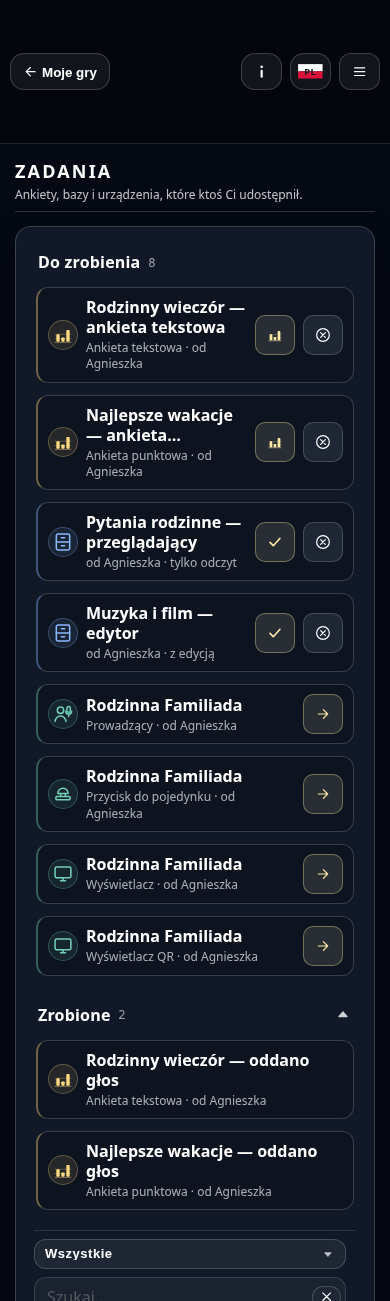
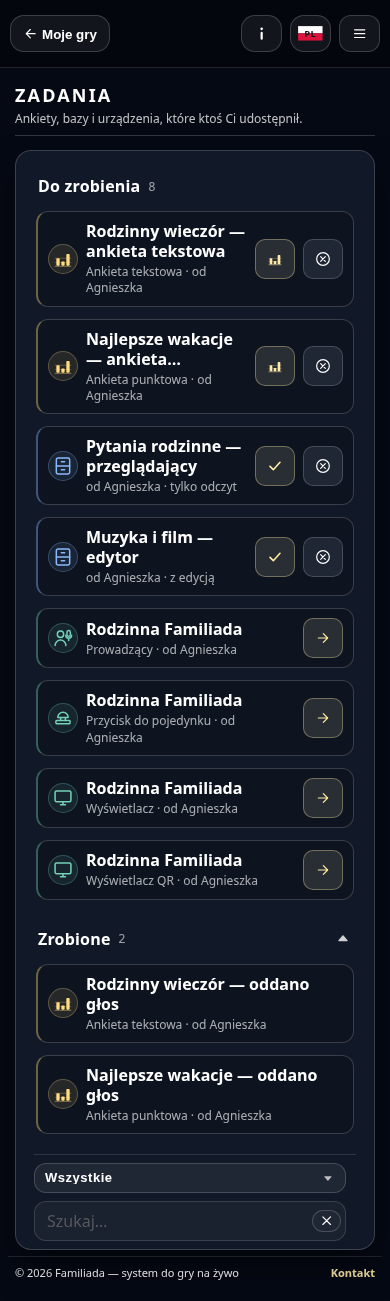
Plan E20 compact mobile information review and record Tasks verification

diff --git a/docs/wdrozenia.md b/docs/wdrozenia.md
@@ -85,6 +85,7 @@ Użytkownik potwierdził, że poprzednia sesja nie pracuje już nad Control.
 | 12f | E19 | **Ujednolicenie zasobów i udostępnień**: graf rodziców/potomków; blokady; cofanie; kaskadowe usuwanie; Control TTL; Ankiety/Bazy/Control/Znajomi/Subskrybenci; wspólna bramka flagi mailowej; jeden `/go/` z pełną walidacją i komunikatami wszystkich stanów; wspólny CSS sekcji; globalne akcje Ankiet w stylu Gier, kompaktowe na telefonie; łagodny limit anonimowych głosów | [`blokady-zasobow.md`](blokady-zasobow.md) §7, [`ujednolicenie-wygladu.md`](ujednolicenie-wygladu.md), [`e19-znajomi-plan.md`](e19-znajomi-plan.md) §7, [`maile-granice.md`](maile-granice.md) | kroki 1–6 zrobione produkcyjnie; Control UI: 38133215588 ✓ (2/2 + unit 401/401); krok 7 — audyt rozpoczęty, implementacja pozostałych stron przed nami; graf/routing pozostałych obszarów do zrobienia |
 | 12g | E19N | Przegląd starych funkcjonalności i mapy przejść po usuwaniu stron modalnych; zapis/flush, blokady, powroty i wznowienie Control; dopiero potem aktywacja Control → Znajomi | `nawigacja-mapa-plan.md`, „E19 — przegląd starych przejść”; `NAV_DEPENDENCIES.modalPagesReview` | do zrobienia; przycisk Control zablokowany z mapy; nie zmienia historycznego zamknięcia E7 |
 | 12a | E14 | **Sprzątanie po potwierdzeniu** (migracje usuwające): martwe RPC ankiet i hubu (E11h); `cleanup-guest-storage` i jej wywołania w `guest_cleanup_expired` / `guest_discard_current`; kasowanie plików w `delete-account` (zastąpione przez E12b) | ankiety-refaktor.md, usuwanie-danych.md | po E19 (lista uzupełniona o RPC zastępowane w E19 — `e19-znajomi-plan.md` sekcja 2) |
+| 12h | E20 | **Kompaktowy telefon:** ukrywać nieobowiązkowe dane zabierające miejsce; przegląd wszystkich stron i komponentów, krótsze opisy/limity linii, zachowanie informacji potrzebnych do akcji; zrzuty desktop/mobile | `ujednolicenie-wygladu.md`, „E20 — mniej nieobowiązkowych informacji na telefonie” | do zrobienia; Zadania jako pierwszy wzorzec, manual po tym etapie |
 | 13 | E13 | **Instrukcja (manual) zaktualizowana do nowych zasad** — ostatni etap | wszystkie | do zrobienia |
 | — | E1 | Edytor logo: lista + 3 strony, autozapis | nawigacja 6.5a | zrobione |
 
@@ -317,3 +318,7 @@ Stan szczegółowy:
 | 2026-10-11 | Zadania / ikony i kolory — branch zielony | Ikony: 38139586940 ✓. Pełna paczka kolorów i ikon: 38139676754 ✓, 3/3 bez retry, unit 408/408. Test wymaga poprawnych SVG we wszystkich 10 wariantach i trzech różnych akcentów na desktop/mobile; rzeczywista akceptacja bazy także ✓. Odświeżono zrzuty. | Promocja main, Pages, ten sam punktowy test na opublikowanych plikach. |
 
 | 2026-10-11 | Zadania / ikony i kolory wdrożone, korekta mobile | Pages 38139801058 ✓; kontrola produkcyjna 38139841640 ✓ (3/3), unit 408/408. Nowe zgłoszenie: zbyt dużo informacji i zbyt wysokie kafelki na telefonie. Skrócony opis bez dat, limit dwóch linii tytułu/opisu, mniejsza ikona. Desktop pełny. Test wymaga wysokości mobilnych wariantów ≤104 px, zachowania ikon/kolorów i właściwego wariantu tekstu. | Zrzuty, unit i kolejny punktowy tasks przed Pages. |
+
+| 2026-10-11 | E20 — decyzja użytkownika | Dodano osobny przegląd całego systemu: nieobowiązkowe informacje zajmujące miejsce na telefonie mają znikać, istotne stany/uprawnienia/akcje zostają. Wspólne komponenty i zrzuty po wykonaniu. | E20 w kolejce przed manualem; Zadania są pierwszym przykładem. |
+
+| 2026-10-11 | Zadania / kompaktowy mobile — branch zielony | 38140029908 ✓: 3/3 bez retry, unit 408/408; właściwe opisy desktop/mobile, bez dat na telefonie, przykładowe kafelki ≤104 px, ikony i kolory, filtry/zwijanie/pusta lista, akceptacja rzeczywistej bazy. Zrzuty odświeżone. | Main, Pages i punktowa kontrola produkcji. |

diff --git a/docs/ujednolicenie-wygladu.md b/docs/ujednolicenie-wygladu.md
@@ -549,3 +549,24 @@ rejestracja zaczyna od zera”):
 - u znajomych osoba po prostu znika z listy (bez maila);
 - nowe konto na ten sam e-mail **nie odzyskuje** niczego — znajomości
   i subskrypcje trzeba zaprosić od nowa (zgoda dotyczyła starego konta).
+
+## E20 — mniej nieobowiązkowych informacji na telefonie (2026-10-11)
+
+**Decyzja użytkownika:** dane nieobowiązkowe, które zabierają miejsce
+na telefonie, mają znikać. Przejrzeć wszystkie strony i wspólne
+komponenty; stosować zasadę konsekwentnie, nie tylko w Zadaniach.
+
+- Na telefonie ukrywać zbędne daty, rozbudowane opisy pomocnicze,
+  powtarzające się etykiety i metadane, jeśli nie pomagają wykonać akcji.
+- Zachować nazwę zasobu/nadawcy, potrzebny stan, rolę/uprawnienie,
+  komunikaty błędów, blokad i wymagane liczniki oraz przyciski akcji.
+  Dokładny zestaw zależy od funkcji danego kafelka/sekcji.
+- Kompaktowy wariant telefonu i pełny wariant komputera korzystają
+  ze wspólnego komponentu/CSS; bez osobnego przepisywania każdej strony.
+- Długie teksty mają kontrolowaną liczbę linii; kafelki nie rosną
+  nadmiernie przez dodatkowe informacje. Ikony pozostają czytelne.
+- Przegląd desktop/mobile dokumentować zrzutami z przykładowymi danymi
+  po wykonaniu; sprawdzić także długie nazwy i poszczególne stany.
+
+**Stan:** do wykonania jako przegląd całego systemu. Zadania są pierwszym
+wdrożeniem tej zasady, nie oznaczają zamknięcia E20. **Manual nadal ostatni.**

diff --git a/docs/przekazanie.md b/docs/przekazanie.md
@@ -44,6 +44,13 @@ Sześć zrzutów w `docs/img/e19-tasks/`, tabela stanów i linki w planie E19.
 Ankiety z głosem: Zrobione 5 dni; bazy po decyzji znikają; urządzenia
 podłączone pozostają do cofnięcia/wygaśnięcia. Nie zmieniano tych zasad.
 
+## E20 — kompaktowe informacje na telefonie
+
+Nowa decyzja użytkownika: ukrywać na telefonie nieobowiązkowe informacje
+zabierające miejsce, konsekwentnie na wszystkich stronach/komponentach.
+Zakres w `ujednolicenie-wygladu.md` §E20, etap w kolejce przed manualem.
+Zadania są pierwszym wzorcem; cały przegląd E20 nadal do wykonania.
+
 ## Tymczasowa blokada skrótu Control (2026-10-11)
 
 Przycisk „Znajomi” w Control ma być widoczny z ikoną `people`, ale zablokowany.
